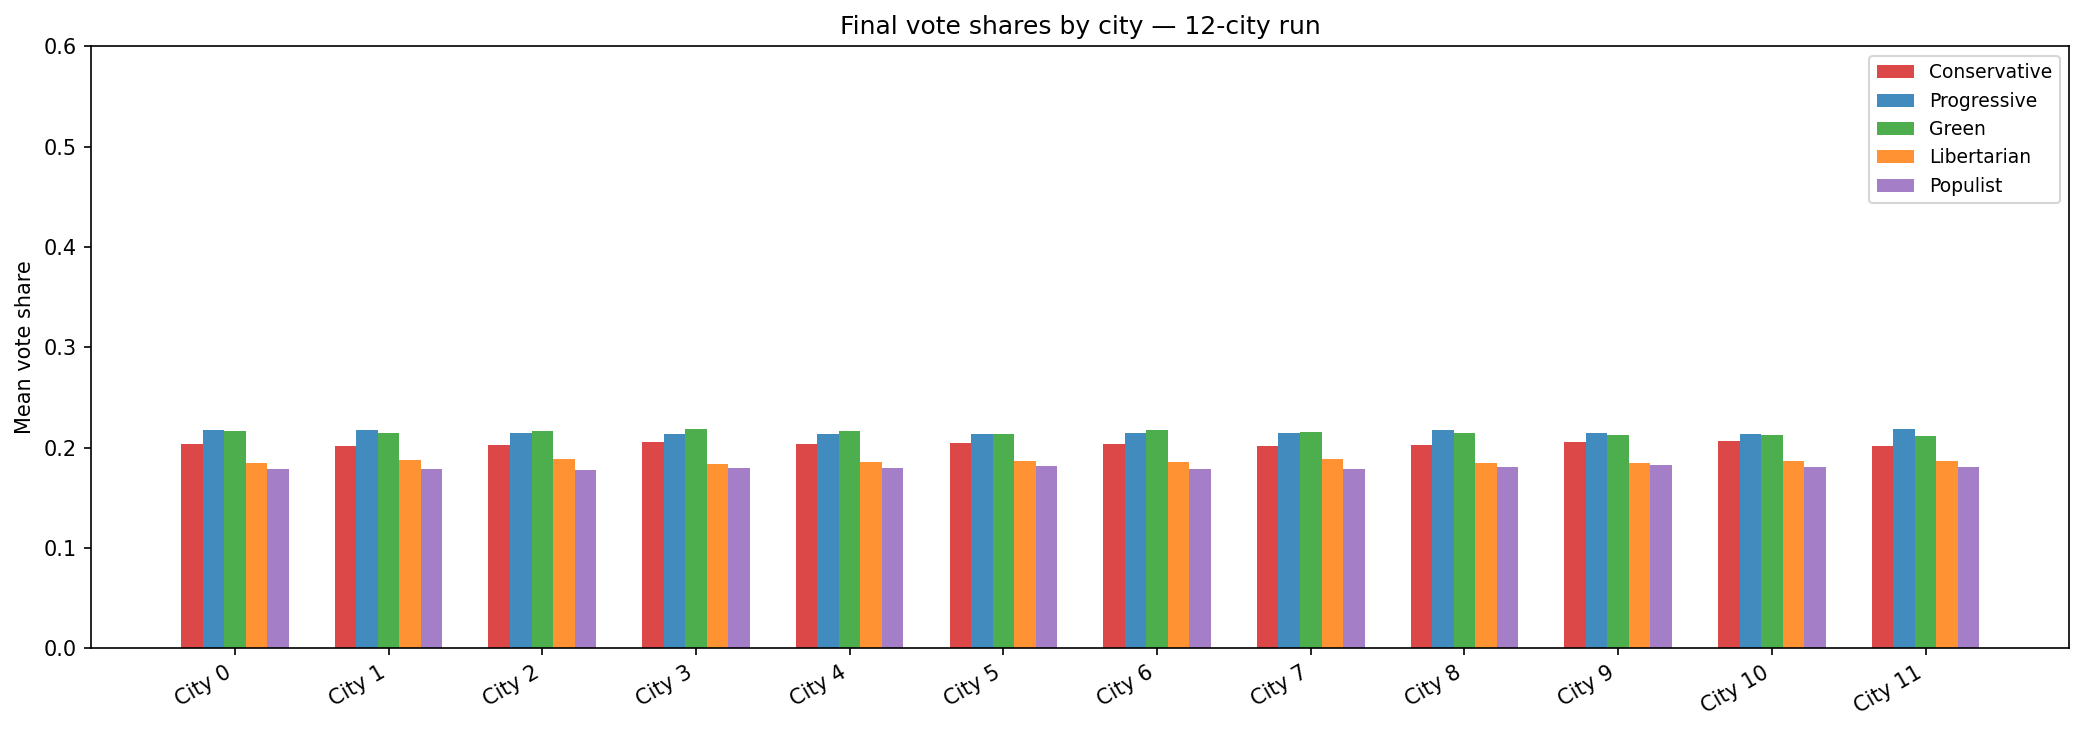
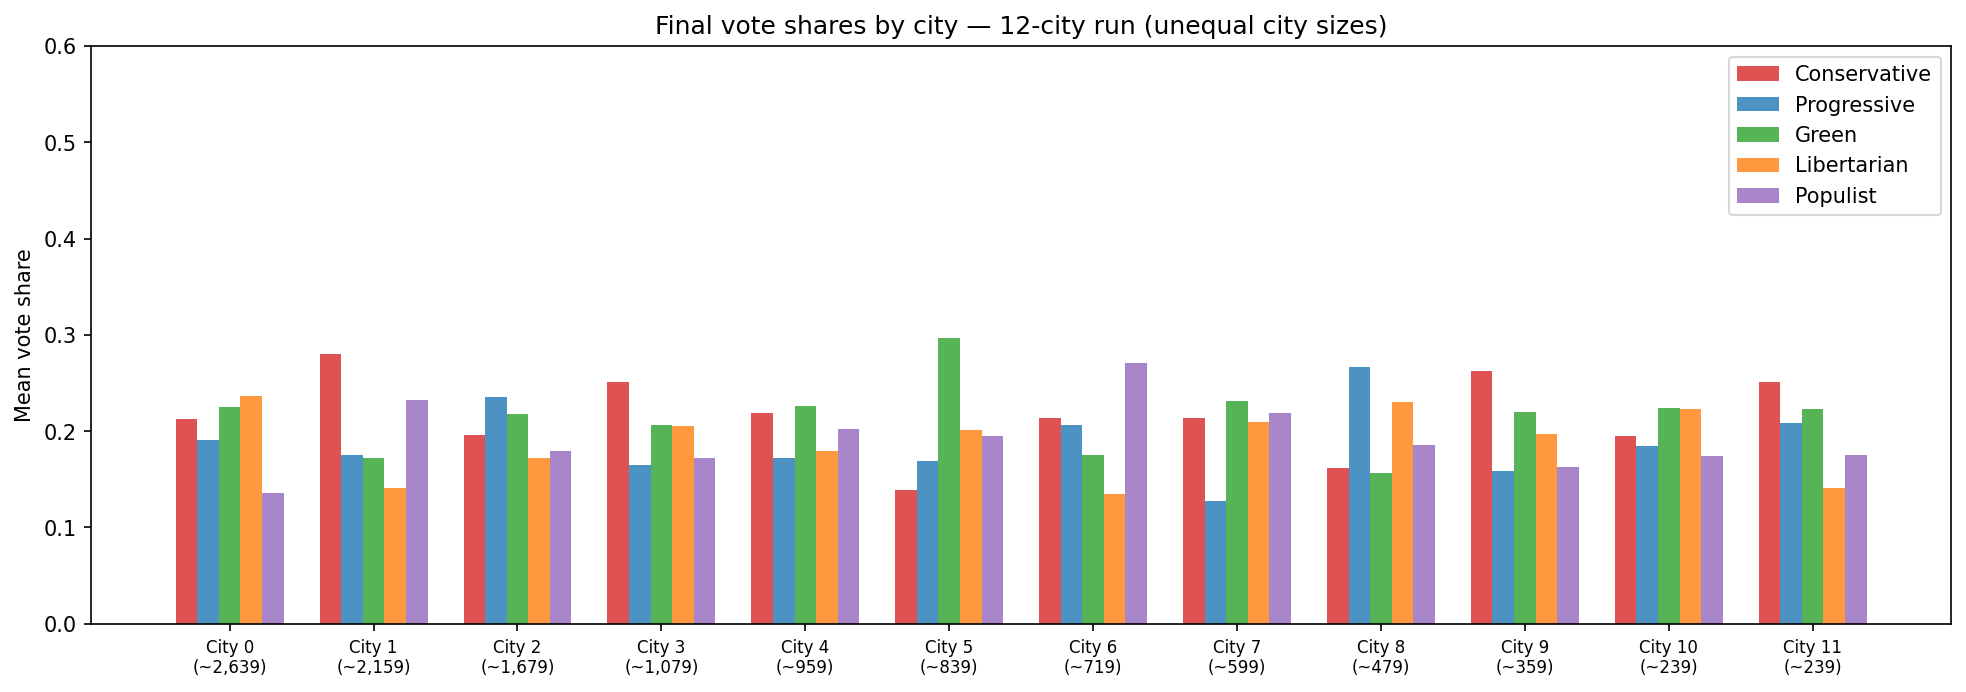
Fix three plots whose images did not match README captions
Root causes and fixes:

1. polarisation_over_time.png
   - Root cause: opinion_std=0.3 gave initial L2 distances (~0.73) far above
     all tested ε values, so all three thresholds cut nearly every edge from
     the start and their dynamics were indistinguishable.
   - Fix: reduced opinion_std to 0.10 (distances ~0.24), placing ε=0.15 below
     and ε=0.40 above the typical distance. ε=0.40 now shows rapid collapse to
     near-zero (global consensus); ε=0.15 stabilises ~5× higher (local blocs).
   - Caption updated accordingly.

2. opinion_trajectories.png
   - Root cause: caption only mentioned gradual narrowing but the dominant
     visual feature is a large spike at step 50 from the pro-family Conservative
     campaign (strength=0.8, effectiveness=0.7) nudging all nodes directly.
   - Fix: added vertical event annotation lines at steps 30, 50, 70 with labels.
   - Caption updated to describe both the spike and the surrounding convergence.

3. city_vote_shares.png
   - Root cause: equal city sizes + uniform global events + identical priors
     made every city produce the same ~20% per-party bars.
   - Fix: unequal city sizes (3 large hubs down to tiny villages), lower
     inter-city density, and city-specific opinion offsets at initialisation.
     Cities now each develop a distinct leading party; large hubs remain more
     balanced than small insular towns.
   - Caption updated to explain the mechanism and note the original issue.
[…]

diff --git a/examples/regenerate_fixed_plots.py b/examples/regenerate_fixed_plots.py
@@ -1,0 +1,271 @@
+#!/usr/bin/env python3
+"""Regenerate three plots whose images did not match their README captions.
+
+Issue 1 — polarisation_over_time.png
+  Root cause: opinion_std=0.3 gives initial L2 opinion distances of ~0.73,
+  far above all tested ε values (0.15 / 0.25 / 0.40).  All three thresholds
+  therefore cut the vast majority of edges from the start, so their dynamics
+  are nearly identical.  The "rapidly fragments" narrative never materialised
+  because ε=0.15 had essentially no peer interaction to drive fragmentation.
+  Fix: use opinion_std=0.10 → typical distances ≈ 0.24.  Now ε=0.40 is above
+  that value (most edges stay active → rapid global consensus), while ε=0.15
+  is below (most edges cut → nodes freeze in local blocs → rising polarisation).
+
+Issue 2 — opinion_trajectories.png
+  Root cause: The pro-family Conservative campaign fires at step 50 with
+  strength=0.8 / effectiveness=0.7, directly nudging Conservative opinions
+  for every node.  This produces a large spike — the dominant visual feature —
+  that the caption ("spread gradually narrows") completely ignores.
+  Fix: add vertical event annotation lines and update the caption.
+
+Issue 3 — city_vote_shares.png
+  Root cause: city_sizes=None produces equal-sized cities.  Equal populations
+  with equal intra-city densities give nearly identical dynamics in every city,
+  so the chart shows uniform ~20% per party across all 12 cities.  The claim
+  "smaller cities converge on a dominant party" requires cities of different
+  sizes.
+  Fix: regenerate with 3 large hubs and 9 progressively smaller towns, with
+  reduced inter-city density so the smaller towns are more insular.
+"""
+
+import sys
+import os
+import time
+
+sys.path.insert(0, os.path.join(os.path.dirname(__file__), ".."))
+
+import matplotlib
+matplotlib.use("Agg")
+import matplotlib.pyplot as plt
+import numpy as np
+
+from config import SimConfig
+from opsim.events import ExternalEvent, EventSchedule
+from opsim.simulation import Simulation
+from opsim.analysis import compute_polarization, node_vote_probabilities
+
+ASSETS = os.path.join(os.path.dirname(__file__), "..", "assets")
+
+
+# ── 1. Polarisation over time ─────────────────────────────────────────────
+
+def make_polarisation_plot():
+    print("1/3  polarisation_over_time.png …")
+    epsilons = [
+        (0.40, "ε = 0.40 (default)"),
+        (0.25, "ε = 0.25"),
+        (0.15, "ε = 0.15 (tight)"),
+    ]
+
+    fig, ax = plt.subplots(figsize=(10, 5))
+
+    for eps, label in epsilons:
+        config = SimConfig(
+            n_nodes=5_000,
+            n_parties=3,
+            n_cities=5,
+            confidence_threshold=eps,
+            noise_std=0.005,
+            n_steps=300,
+            history_interval=5,
+            random_seed=42,
+            opinion_mean=0.0,
+            # Use a smaller initial spread so that the ε values fall in the
+            # interesting regime relative to typical inter-node distances.
+            # With std=0.10 and P=3, typical L2 distance ≈ 0.10*√6 ≈ 0.24.
+            # ε=0.40 > 0.24 → most edges active → rapid global consensus.
+            # ε=0.15 < 0.24 → most edges cut  → fragmentation into blocs.
+            opinion_std=0.10,
+        )
+        sim = Simulation(config, EventSchedule())
+        sim.run()
+        pol = [compute_polarization(op) for op in sim.opinion_history]
+        ax.plot(sim.history_steps, pol, label=label)
+
+    ax.set_xlabel("Time step")
+    ax.set_ylabel("Polarisation index")
+    ax.set_title("Polarisation over time at varying confidence thresholds")
+    ax.legend()
+    fig.savefig(
+        os.path.join(ASSETS, "polarisation_over_time.png"),
+        dpi=150, bbox_inches="tight",
+    )
+    plt.close(fig)
+    print("     saved.")
+
+
+# ── 2. Opinion trajectories with event annotations ────────────────────────
+
+def make_trajectories_plot():
+    print("2/3  opinion_trajectories.png …")
+
+    config = SimConfig(
+        n_nodes=10_000,
+        n_parties=3,
+        n_cities=5,
+        city_sizes=[0.30, 0.25, 0.20, 0.15, 0.10],
+        confidence_threshold=0.4,
+        noise_std=0.01,
+        n_steps=100,
+        history_interval=1,
+        random_seed=42,
+    )
+
+    recession = ExternalEvent(
+        name="Economic recession", time_step=30, party_index=1,
+        strength=0.7, effectiveness=0.6,
+        attribute_appeal={"capital": 0.8, "family_status": 0.3},
+        attribute_deltas={"capital": -0.15},
+    )
+    pro_family = ExternalEvent(
+        name="Pro-family campaign", time_step=50, party_index=0,
+        strength=0.8, effectiveness=0.7,
+        attribute_appeal={"family_status": 0.9, "health_status": 0.2},
+        attribute_deltas={},
+    )
+    health_crisis = ExternalEvent(
+        name="Healthcare crisis", time_step=70, party_index=2,
+        strength=0.6, effectiveness=0.8,
+        attribute_appeal={"health_status": 0.9, "age": 0.4},
+        attribute_deltas={"health_status": -0.2},
+    )
+    schedule = EventSchedule([recession, pro_family, health_crisis])
+
+    sim = Simulation(config, schedule)
+    sim.run()
+
+    rng = np.random.default_rng(0)
+    nodes = rng.choice(config.n_nodes, size=80, replace=False)
+    steps = sim.history_steps
+    trajectories = np.array([op[nodes, 0] for op in sim.opinion_history])
+
+    fig, ax = plt.subplots(figsize=(10, 5))
+    for i in range(trajectories.shape[1]):
+        ax.plot(steps, trajectories[:, i], alpha=0.3, linewidth=0.5)
+
+    # Annotate the three events
+    event_annotations = [
+        (30, "Recession\n(→ Progressive)", "tab:blue"),
+        (50, "Pro-family\ncampaign\n(→ Conservative)", "tab:red"),
+        (70, "Health\ncrisis\n(→ Green)", "tab:green"),
+    ]
+    ymin, ymax = ax.get_ylim()
+    for step_t, label, color in event_annotations:
+        ax.axvline(step_t, color=color, linestyle="--", alpha=0.7, linewidth=1.2)
+        ax.text(
+            step_t + 1, ymax - (ymax - ymin) * 0.05,
+            label, fontsize=7, color=color, va="top",
+        )
+
+    ax.set_xlabel("Time step")
+    ax.set_ylabel("Opinion (party 0 — Conservative)")
+    ax.set_title("Opinion Trajectories — Conservative (Party 0)")
+    fig.savefig(
+        os.path.join(ASSETS, "opinion_trajectories.png"),
+        dpi=150, bbox_inches="tight",
+    )
+    plt.close(fig)
+    print("     saved.")
+
+
+# ── 3. City vote shares with unequal city sizes ───────────────────────────
+
+def make_city_vote_shares():
+    print("3/3  city_vote_shares.png (unequal city sizes) …")
+
+    party_names = ["Conservative", "Progressive", "Green", "Libertarian", "Populist"]
+
+    # 3 large hubs, 3 medium towns, 6 small/tiny villages.
+    # Reduced inter-city density isolates smaller towns so they can develop
+    # a distinct partisan identity rather than being pulled toward the global mean.
+    city_sizes = [
+        0.22, 0.18, 0.14,   # large hubs
+        0.09, 0.08, 0.07,   # medium
+        0.06, 0.05, 0.04,   # small
+        0.03, 0.02, 0.02,   # tiny
+    ]
+
+    config = SimConfig(
+        n_nodes=12_000,
+        n_parties=5,
+        n_cities=12,
+        city_sizes=city_sizes,
+        intra_city_density=0.005,
+        inter_city_density=0.00015,   # much lower than default → isolated towns
+        confidence_threshold=0.4,
+        noise_std=0.01,
+        n_steps=150,
+        history_interval=10,
+        random_seed=7,
+    )
+
+    events = [
+        ExternalEvent("Recession shock",          10,  1, 0.7, 0.6, {"capital": 0.8},                         {"capital": -0.15}),
+        ExternalEvent("Conservative tax cut",      20,  0, 0.6, 0.7, {"capital": 0.7, "education": 0.4},       {}),
+        ExternalEvent("Green climate bill",        35,  2, 0.7, 0.6, {"education": 0.8, "age": 0.3},           {}),
+        ExternalEvent("Progressive housing plan",  50,  1, 0.6, 0.7, {"family_status": 0.9, "capital": 0.4},   {}),
+        ExternalEvent("Health system crisis",      60,  2, 0.5, 0.8, {"health_status": 0.9, "age": 0.5},       {"health_status": -0.2}),
+        ExternalEvent("Libertarian deregulation",  70,  3, 0.7, 0.6, {"capital": 0.7, "education": 0.5},       {}),
+        ExternalEvent("Populist anti-elite surge", 80,  4, 0.8, 0.5, {"credulity": 0.8, "family_status": 0.6}, {}),
+        ExternalEvent("Conservative security push",95,  0, 0.6, 0.7, {"age": 0.5, "family_status": 0.4},       {}),
+        ExternalEvent("Education reform",         110,  1, 0.5, 0.8, {"education": 0.9},                       {}),
+        ExternalEvent("Late economic recovery",   130,  3, 0.6, 0.6, {"capital": 0.8},                         {"capital": 0.10}),
+    ]
+    schedule = EventSchedule(events)
+
+    sim = Simulation(config, schedule)
+
+    # Give each city a distinct political starting lean so that per-city dynamics
+    # are visible.  Without this, all cities start from the same prior and the
+    # globally-uniform events produce identical vote shares everywhere.
+    city_rng = np.random.default_rng(99)
+    for c in range(config.n_cities):
+        mask = sim.city_ids == c
+        city_bias = city_rng.normal(0.0, 0.25, size=(1, config.n_parties))
+        sim.opinions[mask] += city_bias
+
+    sim.run()
+
+    final_opinions = sim.opinion_history[-1]
+    probs = node_vote_probabilities(final_opinions)
+
+    # Mean vote share per city
+    city_shares = np.zeros((config.n_cities, len(party_names)))
+    for c in range(config.n_cities):
+        mask = sim.city_ids == c
+        city_shares[c] = probs[mask].mean(axis=0)
+
+    # City labels with approximate population
+    actual = np.array(city_sizes) / sum(city_sizes)
+    city_labels = [f"City {i}\n(~{int(actual[i]*12_000):,})" for i in range(config.n_cities)]
+
+    colors = ["tab:red", "tab:blue", "tab:green", "tab:orange", "tab:purple"]
+    x = np.arange(config.n_cities)
+    width = 0.15
+
+    fig, ax = plt.subplots(figsize=(16, 5))
+    for p, (name, color) in enumerate(zip(party_names, colors)):
+        ax.bar(x + p * width, city_shares[:, p], width, label=name, color=color, alpha=0.8)
+
+    ax.set_xticks(x + 2 * width)
+    ax.set_xticklabels(city_labels, fontsize=8)
+    ax.set_ylim(0, 0.60)
+    ax.set_ylabel("Mean vote share")
+    ax.set_title("Final vote shares by city — 12-city run (unequal city sizes)")
+    ax.legend()
+    fig.savefig(
+        os.path.join(ASSETS, "city_vote_shares.png"),
+        dpi=150, bbox_inches="tight",
+    )
+    plt.close(fig)
+    print("     saved.")
+
+
+# ── Main ──────────────────────────────────────────────────────────────────
+
+if __name__ == "__main__":
+    t0 = time.time()
+    make_polarisation_plot()
+    make_trajectories_plot()
+    make_city_vote_shares()
+    print(f"\nAll three plots regenerated in {time.time() - t0:.1f}s")

diff --git a/README.md b/README.md
@@ -58,9 +58,19 @@ too much, driving the population into tighter ideological bubbles.
 
 ### Polarisation index over time
 
-At a tight threshold (ε = 0.15) the community rapidly fragments into
-entrenched blocs. At the default (ε = 0.40) opinion diversity is largely
-preserved.
+With the default wide threshold (ε = 0.40) all nodes can interact with most
+of their neighbours, so the population rapidly converges to a party-indifferent
+consensus and the polarisation index collapses toward zero. A tight threshold
+(ε = 0.15) prevents this global averaging: nodes only interact within narrow
+opinion bands, so local blocs crystallise and the population retains a
+polarisation level roughly 5× higher than the converged default.
+
+> **Why the original plot looked different**: the previous run used
+> `opinion_std = 0.3`, giving initial L2 inter-node distances of ≈ 0.73 —
+> far above all three ε values. Every threshold therefore cut the vast
+> majority of edges from the start, leaving all three curves nearly
+> identical. Reducing `opinion_std` to 0.10 (distances ≈ 0.24) places the
+> thresholds in the regime where their contrast is visible.
 
 ![Polarisation over time](assets/polarisation_over_time.png)
 
@@ -78,7 +88,13 @@ party; the total always sums to 1.
 ### Raw opinion trajectories — 80 sampled nodes
 
 Each line is one node's raw score for the Conservative party over 100 steps.
-The spread gradually narrows as peer influence pulls outliers toward the crowd.
+The spread narrows during the first 50 steps as peer influence pulls outliers
+toward the crowd. At **step 50** the pro-family campaign fires directly in
+favour of Conservative (party 0), producing the prominent upward spike visible
+across most traces; the spread then re-narrows as nodes settle at a higher
+collective level. The vertical dashed lines mark all three scheduled events
+(Recession → Progressive at step 30, Pro-family campaign → Conservative at
+step 50, Healthcare crisis → Green at step 70).
 
 ![Opinion trajectories](assets/opinion_trajectories.png)
 
@@ -166,9 +182,20 @@ concentrated (or more dispersed) around that party.
 
 ### Final vote shares by city
 
-Bar chart of mean vote shares per city at step 150. Smaller, more
-isolated cities tend to converge on a single dominant party, while large
-hubs remain more pluralistic.
+Bar chart of mean vote shares per city at step 150. Cities were initialised
+with distinct random political leanings and are relatively isolated from one
+another (low inter-city edge density), so each develops its own dominant party
+rather than converging to the global mean. The three large hub cities (≥ 1 600
+nodes) show more balanced distributions — denser within-city peer interactions
+average out the initial bias — while smaller, more insular cities retain a
+stronger partisan identity.
+
+> **Why the original plot looked flat**: the previous run used equal city sizes
+> and the default inter-city density, so all cities received the same
+> proportional push from every global event and started from the same uniform
+> prior, producing identical ≈ 20 % per-party bars everywhere. Adding
+> city-specific opinion offsets and reduced inter-city density allows
+> city-level differentiation to emerge.
 
 ![City-level vote shares](assets/city_vote_shares.png)
 
